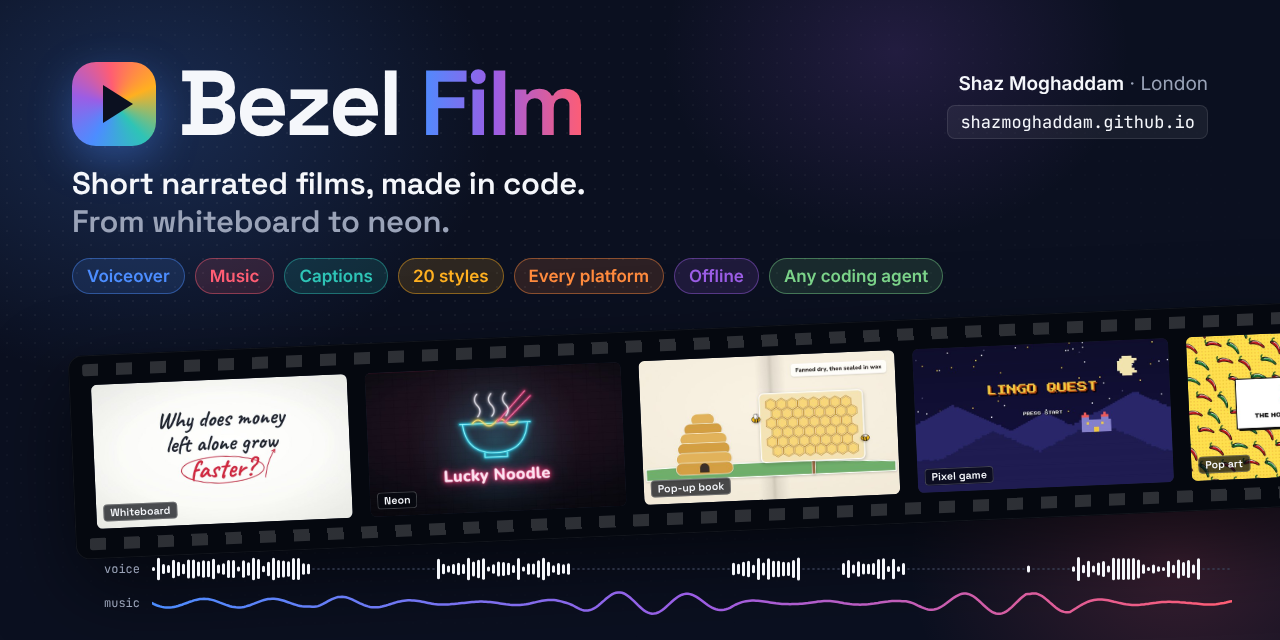
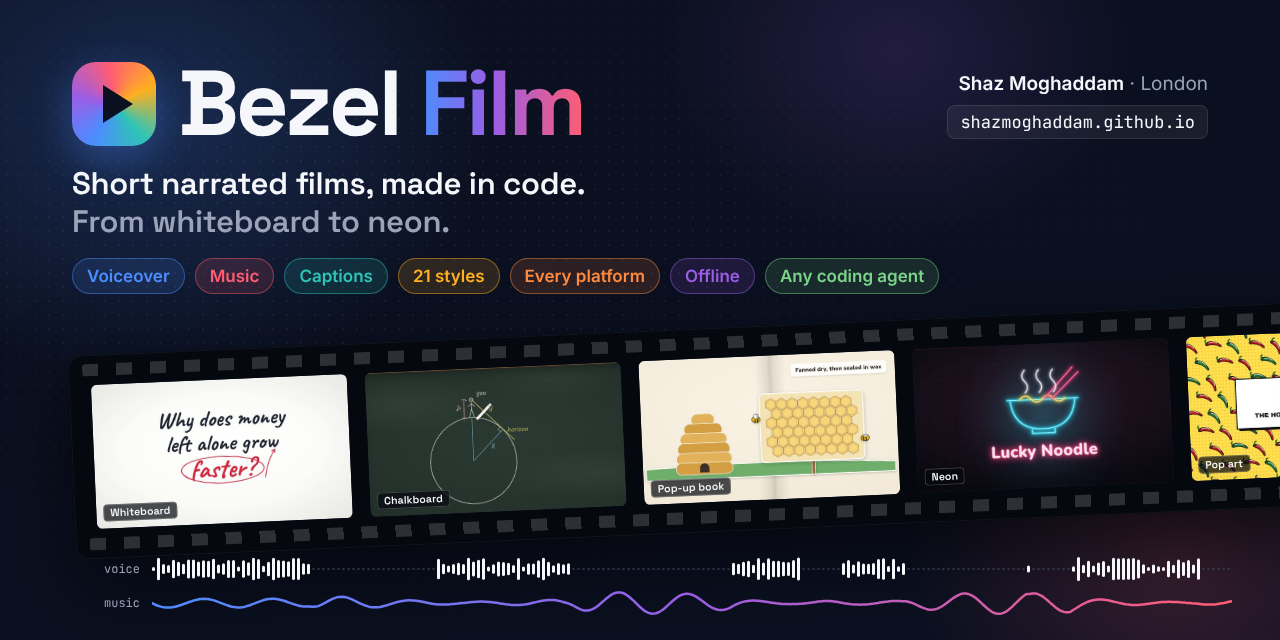
Release 1.1.0
Chalkboard, a bonus style, makes twenty-one. Bumps the version to 1.1.0
and dates the changelog.

- The README gallery now shows all twenty-one styles, in three columns
  of seven.
- The README banner and social preview show a Chalkboard still and say
  "21 styles".
- The README counts twelve font pairings, and the roadmap marks 1.1.0
  released.

diff --git a/docs/banner.html b/docs/banner.html
@@ -87,7 +87,7 @@ h1 span{background:linear-gradient(90deg,var(--p0),var(--p4) 45%,var(--p1));-web
     <span class="chip" style="--c:var(--p0)">Voiceover</span>
     <span class="chip" style="--c:var(--p1)">Music</span>
     <span class="chip" style="--c:var(--p2)">Captions</span>
-    <span class="chip" style="--c:var(--p3)">20 styles</span>
+    <span class="chip" style="--c:var(--p3)">21 styles</span>
     <span class="chip" style="--c:var(--p6)">Every platform</span>
     <span class="chip" style="--c:var(--p4)">Offline</span>
     <span class="chip agent" style="--c:var(--p5)">Any coding agent</span>
@@ -96,12 +96,12 @@ h1 span{background:linear-gradient(90deg,var(--p0),var(--p4) 45%,var(--p1));-web
 
 <div class="strip">
   <div class="frame" data-style="Whiteboard"><img src="banner/whiteboard.jpg" alt=""></div>
-  <div class="frame" data-style="Neon"><img src="banner/neon.jpg" alt=""></div>
+  <div class="frame" data-style="Chalkboard"><img src="banner/chalkboard.jpg" alt=""></div>
   <div class="frame" data-style="Pop-up book"><img src="banner/pop-up-book.jpg" alt=""></div>
-  <div class="frame" data-style="Pixel game"><img src="banner/pixel-game.jpg" alt=""></div>
+  <div class="frame" data-style="Neon"><img src="banner/neon.jpg" alt=""></div>
   <div class="frame" data-style="Pop art"><img src="banner/pop-art.jpg" alt=""></div>
+  <div class="frame" data-style="Pixel game"><img src="banner/pixel-game.jpg" alt=""></div>
   <div class="frame" data-style="Manga"><img src="banner/manga.jpg" alt=""></div>
-  <div class="frame" data-style="Isometric world"><img src="banner/isometric.jpg" alt=""></div>
 </div>
 
 <div class="lane">

diff --git a/README.md b/README.md
@@ -1,4 +1,4 @@
-[![Bezel Film: short narrated films, made in code, from whiteboard to neon. A film strip of scenes in different styles (a whiteboard, a neon sign, a pop-up book) above a soundtrack of voice and music. By Shaz Moghaddam, London.](docs/banner.png)](https://shazmoghaddam.github.io/)
+[![Bezel Film: short narrated films, made in code, from whiteboard to neon. A film strip of scenes in different styles (a whiteboard, a chalkboard lesson, a pop-up book) above a soundtrack of voice and music. By Shaz Moghaddam, London.](docs/banner.png)](https://shazmoghaddam.github.io/)
 
 # Bezel Film
 
@@ -57,18 +57,18 @@ It reads the README, `package.json` or `pyproject.toml`, the changelog and (for 
 - **A natural voice.** Female or male, made on your computer. Hear the options with `npx bezel-film voices`.
 - **Music for every mood.** Six moods, each with a few hand-picked pieces: public-domain recordings, or music composed for the film and played on recorded orchestral instruments. It dips whenever the voice speaks. Or bring your own track.
 - **Made for every platform.** TikTok, Reels, Shorts, LinkedIn, X, WhatsApp and YouTube, each in the right shape with text kept clear of the app's buttons. Write one film and get every version, plus a cover image for each.
-- **Fonts to suit the story.** Eleven pairings, from a magazine serif to handwriting, a Swiss grotesque and pixel and terminal fonts, shipped inside the package. See them with `npx bezel-film styles`.
+- **Fonts to suit the story.** Twelve pairings, from a magazine serif to handwriting, a Swiss grotesque, chalk, and pixel and terminal fonts, shipped inside the package. See them with `npx bezel-film styles`.
 - **Scenes your agent draws.** Beyond the ready-made scenes, your agent can write whole scenes in code: drawings that draw themselves, characters, anything. Bezel Film gives it a kit to build with, a director's guide, and checks that catch mistakes before you render.
 - **Charts that move.** Drawn with [Bezel Charts](https://github.com/ShazMoghaddam/bezel-charts), in bold colours.
 - **Works with your agent.** Claude Code, Codex, Gemini CLI, Cursor, GitHub Copilot, Windsurf, and any agent that reads `AGENTS.md`.
 - **Private and offline.** After the one-time download, nothing leaves your computer.
 - **Smooth and repeatable.** Every frame is drawn on a frozen clock, so films look the same on any computer, every time.
 
-## Twenty kinds of film
+## Twenty-one kinds of film
 
 Each style is a different kind of film, not just a new colour scheme. Here's the opening of each one's example film, every frame drawn in code:
 
-[![The opening frames of twenty example films, one per style: Whiteboard, Stick figures, Isometric world, Blueprint, Data on paper, 1950s cartoon, 1930s cartoon, Manga, Pop-up book, Crayon book, Origami, Paper lantern, Watercolour, Swiss poster, Pop art, Risograph, Neon, Dark keynote, Pixel game and Retro terminal](docs/styles.jpg)](#styles-and-fonts)
+[![The opening frames of twenty-one example films, one per style: Whiteboard, Stick figures, Isometric world, Blueprint, Data on paper, 1950s cartoon, 1930s cartoon, Manga, Pop-up book, Crayon book, Origami, Paper lantern, Watercolour, Swiss poster, Pop art, Risograph, Neon, Dark keynote, Pixel game, Retro terminal and Chalkboard](docs/styles.jpg)](#styles-and-fonts)
 
 Plus `data-story`, the clean, chart-led look of the ready-made scenes. See them all in [Styles and fonts](#styles-and-fonts), and the films themselves in [`examples/`](examples).
 
@@ -388,7 +388,7 @@ On Linux, the voice engine also tries to download large GPU files it doesn't nee
 - **v0.8.0 (released):** four paper and craft styles: Pop-up book, Crayon book, Origami and Paper lantern
 - **v0.9.0 (released):** four bold and graphic styles: Watercolour, Swiss poster, Pop art and Risograph
 - **v1.0.0 (released):** the last four styles: Neon, Dark keynote, Pixel game and Retro terminal. All twenty styles are in, and every example film works on phones, in feeds and on YouTube. From here on, film files and the scene kit follow semantic versioning
-- **After v1.0.0:** Chalkboard, a bonus style built on Whiteboard
+- **v1.1.0 (released):** Chalkboard, a bonus style: a lesson worked out in chalk, with a felt eraser and a chalk sound
 
 ## Contributing
 

diff --git a/CHANGELOG.md b/CHANGELOG.md
@@ -3,7 +3,9 @@
 All notable changes to Bezel Film are listed here.
 The format follows [Keep a Changelog](https://keepachangelog.com/en/1.1.0/), and versions follow [Semantic Versioning](https://semver.org/).
 
-## [Unreleased]
+## [1.1.0] - 2026-11-26
+
+Chalkboard, a bonus style, makes twenty-one: a lesson worked out in chalk, line by line, with a felt eraser between ideas and the sound of chalk on the board.
 
 ### Added
 
@@ -11,6 +13,7 @@ The format follows [Keep a Changelog](https://keepachangelog.com/en/1.1.0/), and
 - A `chalk` font pairing: Fredericka the Great and Kalam, bundled from Fontsource.
 - A `chalk` sound effect: a stroke of chalk on a board, a CC0 recording by Breviceps.
 - In the scene kit: `kit.erase` rubs out a drawing with a felt eraser, `kit.dust` lets dust fall from a point, and `kit.drawing` takes `pen: "chalk"` for a stick of chalk and `dust: true` for dust falling as it writes.
+- A gallery of all twenty-one styles in the README, and Chalkboard in the README banner and social preview.
 - A custom scene's sounds can take `line`, to count from when a sentence starts so the sound stays on its words, and `for`, to repeat a sound across a span, a little different each time.
 
 ### Fixed
@@ -319,7 +322,8 @@ The first release: describe a film in one JSON file, and Bezel Film renders it t
 
 - CI checks on every push and pull request, including a render smoke test, plus Dependabot.
 
-[Unreleased]: https://github.com/ShazMoghaddam/bezel-film/compare/v1.0.0...HEAD
+[Unreleased]: https://github.com/ShazMoghaddam/bezel-film/compare/v1.1.0...HEAD
+[1.1.0]: https://github.com/ShazMoghaddam/bezel-film/compare/v1.0.0...v1.1.0
 [1.0.0]: https://github.com/ShazMoghaddam/bezel-film/compare/v0.9.0...v1.0.0
 [0.9.0]: https://github.com/ShazMoghaddam/bezel-film/compare/v0.8.0...v0.9.0
 [0.8.0]: https://github.com/ShazMoghaddam/bezel-film/compare/v0.7.0...v0.8.0
